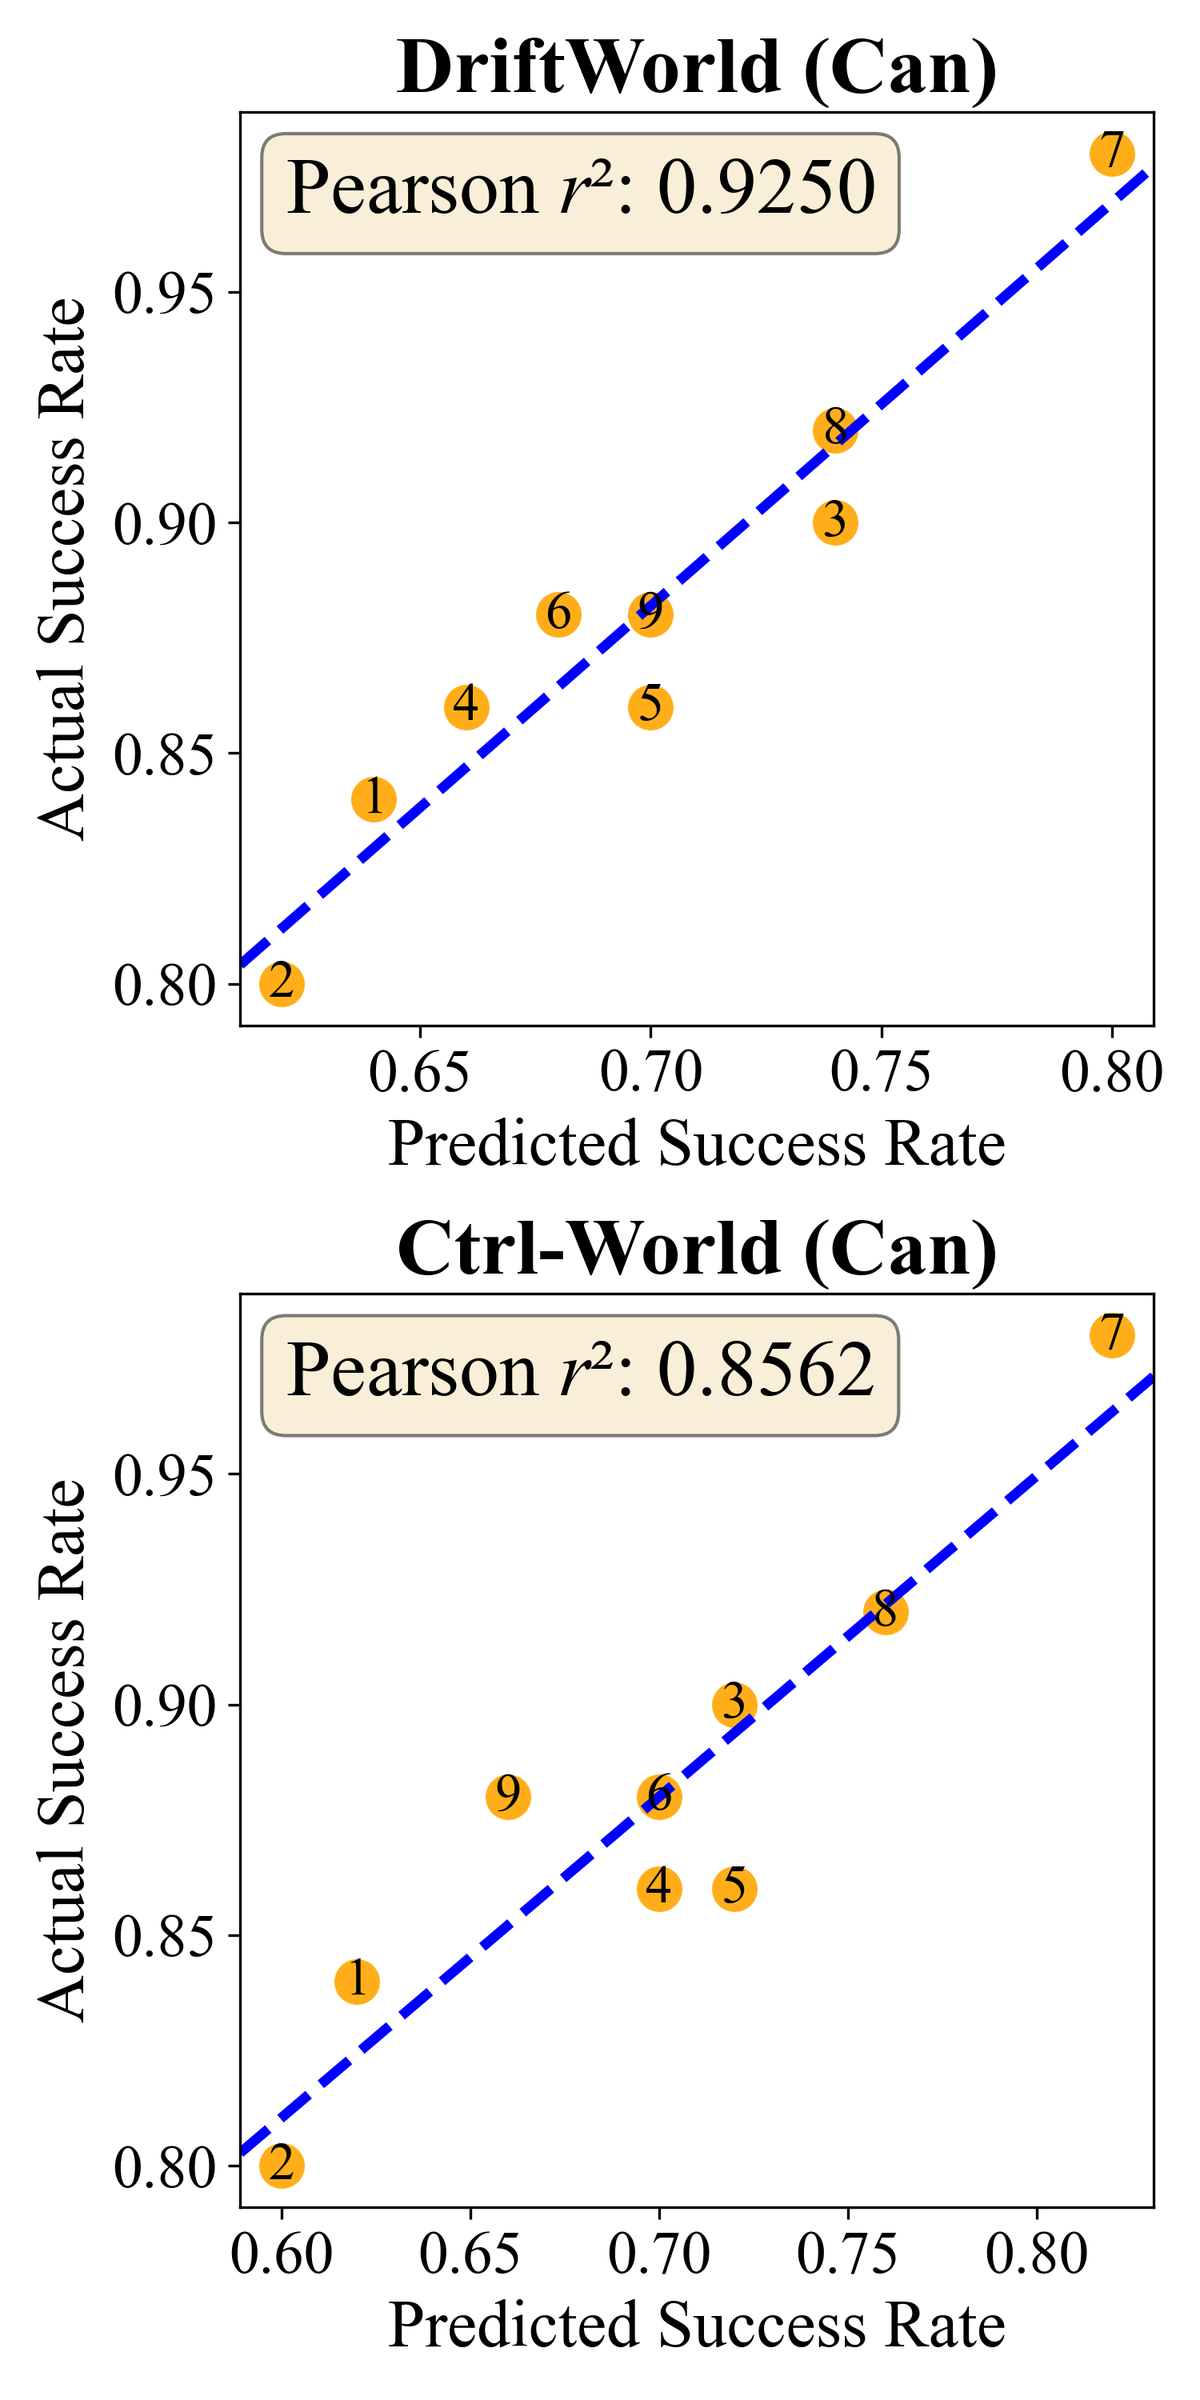
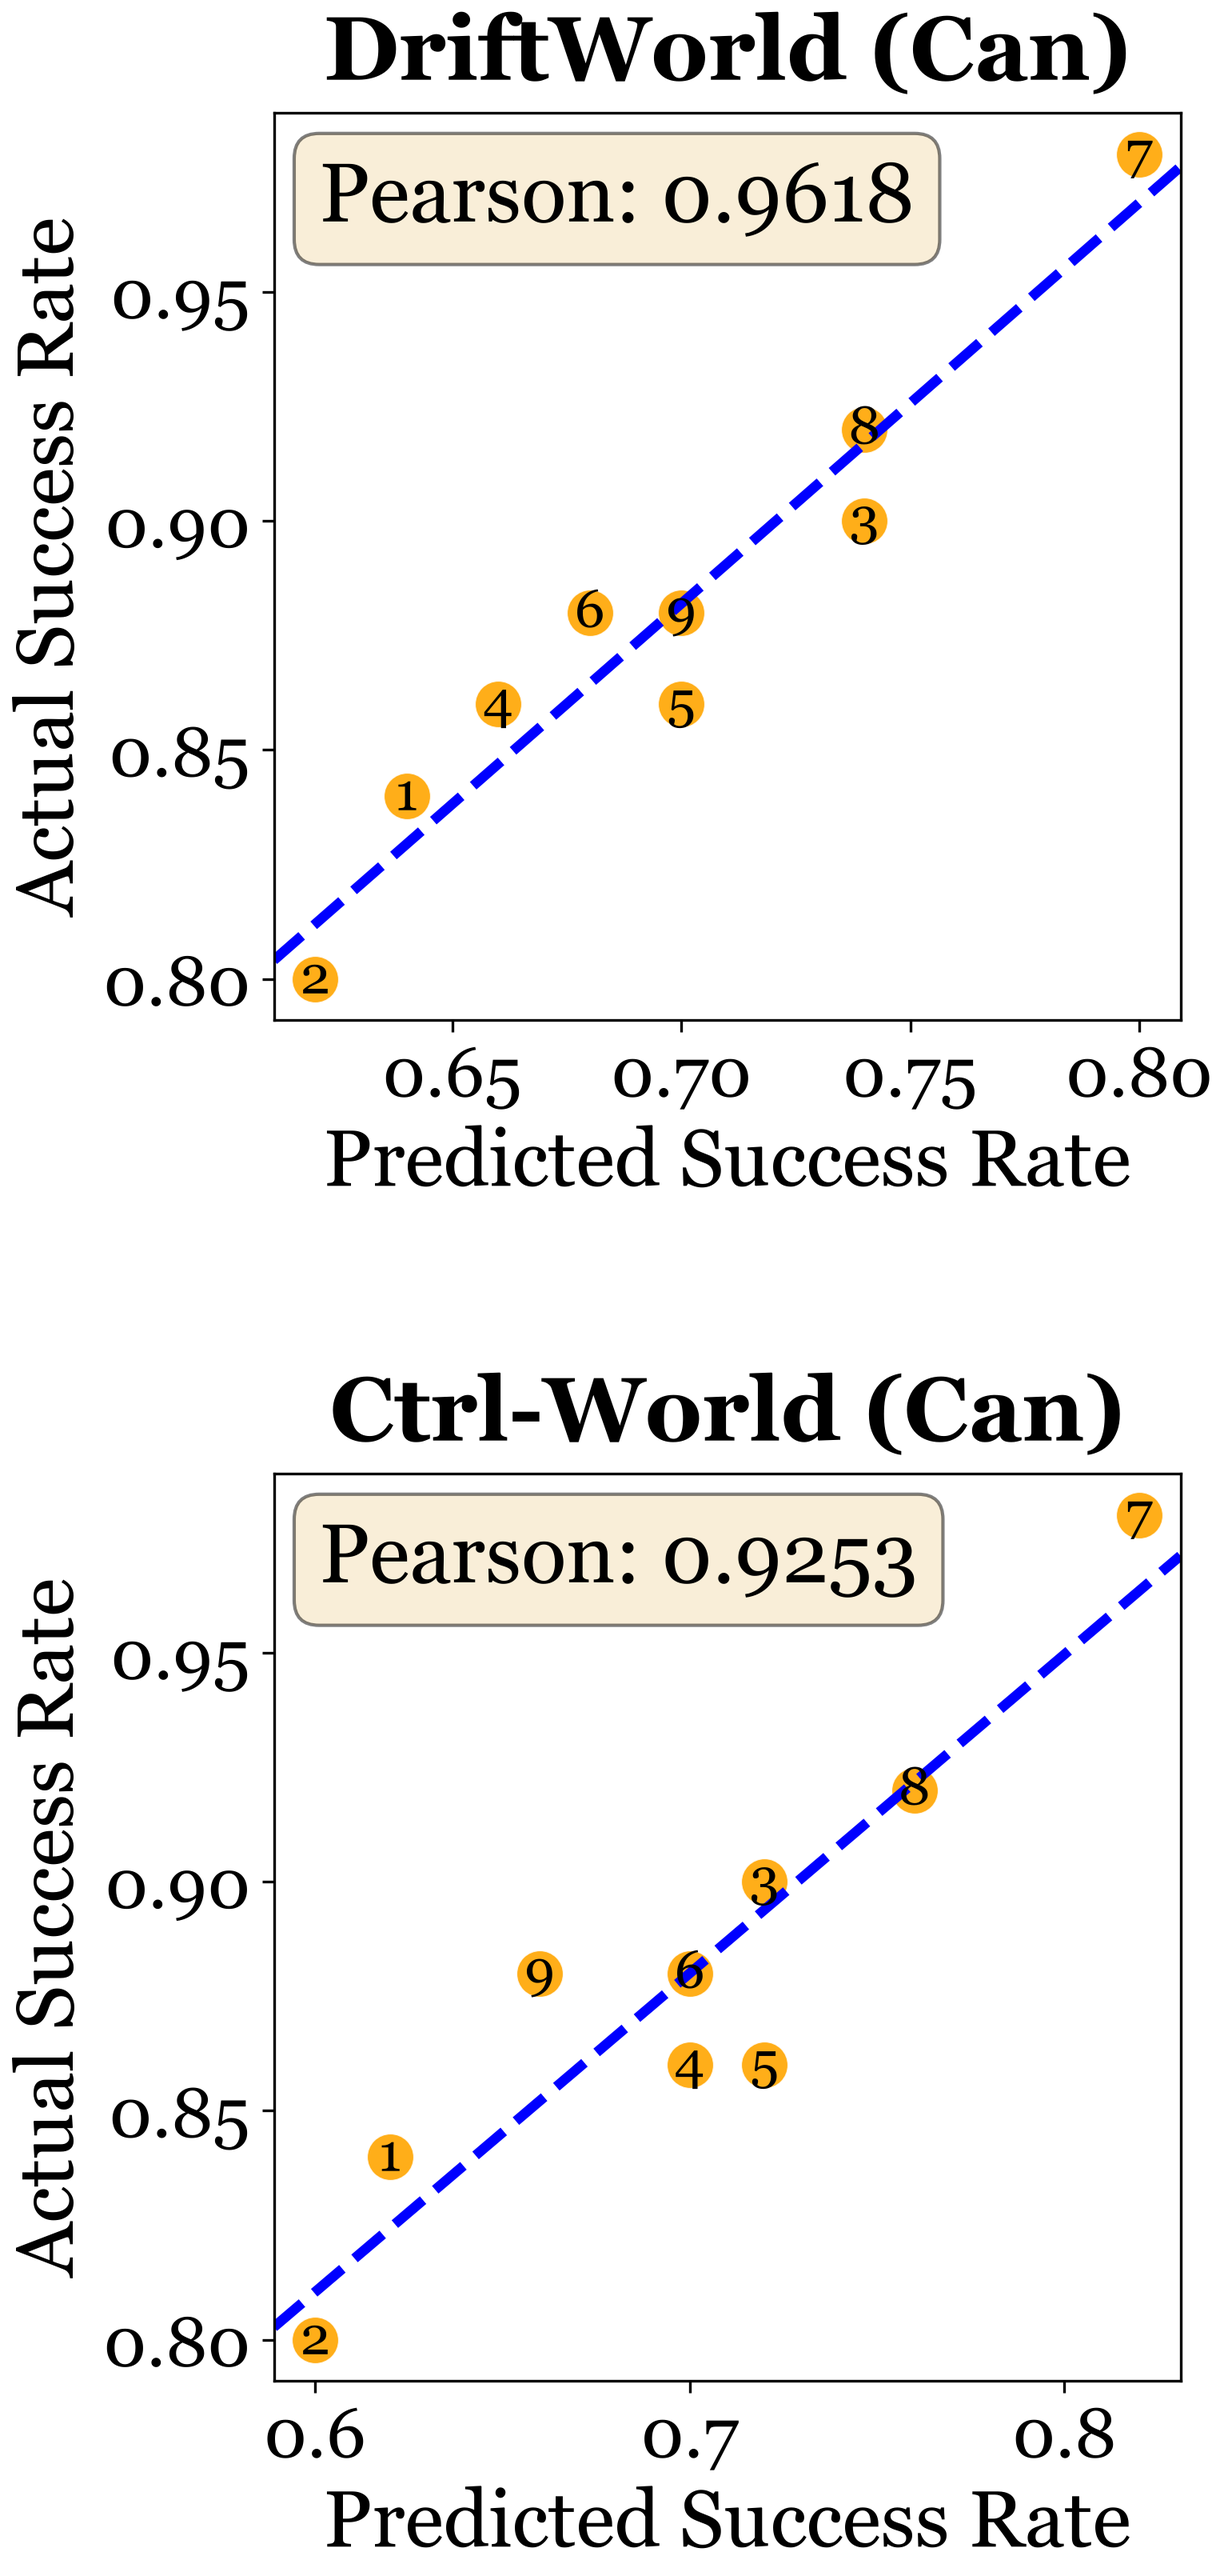
Update

Changed region(s): [[0.0, 0.0, 1.0, 0.992], [0.828, 0.093, 0.8893, 0.124]]

diff --git a/driftworld/index.html b/driftworld/index.html
@@ -36,21 +36,15 @@
       <div class="container narrow">
         <h2 class="section-title">Abstract</h2>
         <p class="lead">
-          Predictive world models enable robots to plan by imagining the outcomes of their actions, but their value for
-          control hinges on generating many rollouts quickly. This creates a bottleneck for diffusion-based world
-          models: multi-step sampling makes each rollout expensive, limiting large-scale action search at inference
-          time. We introduce <b>DriftWorld</b>, an action-conditioned world model based on <em>drifting generative
-            models</em>. Rather than denoising iteratively at inference, DriftWorld learns an action-conditioned drift
-          during
-          training, allowing it to generate future frames from the current observation and a candidate action sequence
-          in a single forward pass at <b>30+ fps</b>, which is 17× faster on average than diffusion-based
-          baselines. We evaluate DriftWorld on standard vision-based robotic manipulation benchmarks, including
-          Bridge-V2, RT-1, Language Table, Push-T, and Robomimic. By producing rollouts that are both accurate and fast,
-          DriftWorld achieves state-of-the-art decision-making performance with far less inference time than
-          diffusion-based world model baselines. Beyond online control, DriftWorld can also serve as an offline
-          simulator for ranking real-world robot policies, with rollout-based scores correlating with ground truth at up
-          to 0.99. These results show that drifting models are a strong fit for robot world modeling, where fast,
-          high-quality imagination directly supports planning and policy evaluation.
+          Predictive world models enable robots to simulate the visual outcomes of their actions,
+          but state-of-the-art diffusion-based models remain costly because generating each rollout requires
+          multi-step iterative denoising. We introduce <b>DriftWorld</b>, an action-conditioned world model
+          based on <em>drifting generative models</em>. DriftWorld learns a conditional drift during training,
+          enabling it to generate future observations for a given action sequence in a single forward pass during inference.
+          Across Bridge-V2, RT-1, Language Table, Push-T, and Robomimic, DriftWorld runs at <b>over 40 fps</b> and is 12+ times
+          faster than diffusion-based baselines, while matching or improving their visual generation quality.
+          This makes DriftWorld an efficient world model for robot simulation and further enables downstream applications
+          including inference-time action search and offline policy evaluation.
         </p>
       </div>
     </section>
@@ -61,7 +55,7 @@
 
       <figcaption style="margin: 16px auto 0; width: 45%; display: block; text-align: left;">
         <b>Overview of DriftWorld.</b> DriftWorld is an action-conditioned world model based on drifting that generates
-        future frames in a single forward pass. It achieves 30+ fps generation on a single H100 GPU, which is
+        future frames in a single forward pass. It achieves 40+ fps generation on a single H100 GPU, which is
         significantly faster than
         existing models on all five environments. DriftWorld can be used for high-quality generation, efficient
         planning, and offline simulation of policies.
@@ -445,7 +439,7 @@
 
         <h3 class="subsection-title">Generated Videos on Real Robot Datasets: Bridge-V2, RT-1, and Language Table</h3>
         <p class="subsection-desc">
-          DriftWorld generates videos that closely match the ground truth, at inference speeds of 33.3, 38.8, and 36.6
+          DriftWorld generates videos that closely match the ground truth, at inference speeds of 41.3, 51.5, and 60.2
           fps for Bridge-V2, RT-1, and Language Table on a single H100 GPU.
         </p>
 
@@ -1785,7 +1779,7 @@
         <p class="section-desc">
           DriftWorld serves as an accurate offline simulator for policy evaluation,
           successfully predicting both the absolute performance and relative ranking of policies.
-          Our model achieves high correlation coefficients of 0.9916, 0.9250, and 0.9515 between
+          Our model achieves high correlation coefficients of 0.9958, 0.9618, and 0.9755 between
           policy performance in the world model and ground-truth performance on
           Robomimic Lift, Robomimic Can, and Push-T tasks, respectively.
         </p>

diff --git a/index.html b/index.html
@@ -172,6 +172,8 @@
       </div>
     </section>
   </main>
+
+  <script type='module' src='https://static.cloudflareinsights.com/beacon.min.js' data-cf-beacon='{"token": "776e2ca73d85475c827cba6ffa720adf"}'></script>
 </body>
 
 </html>
